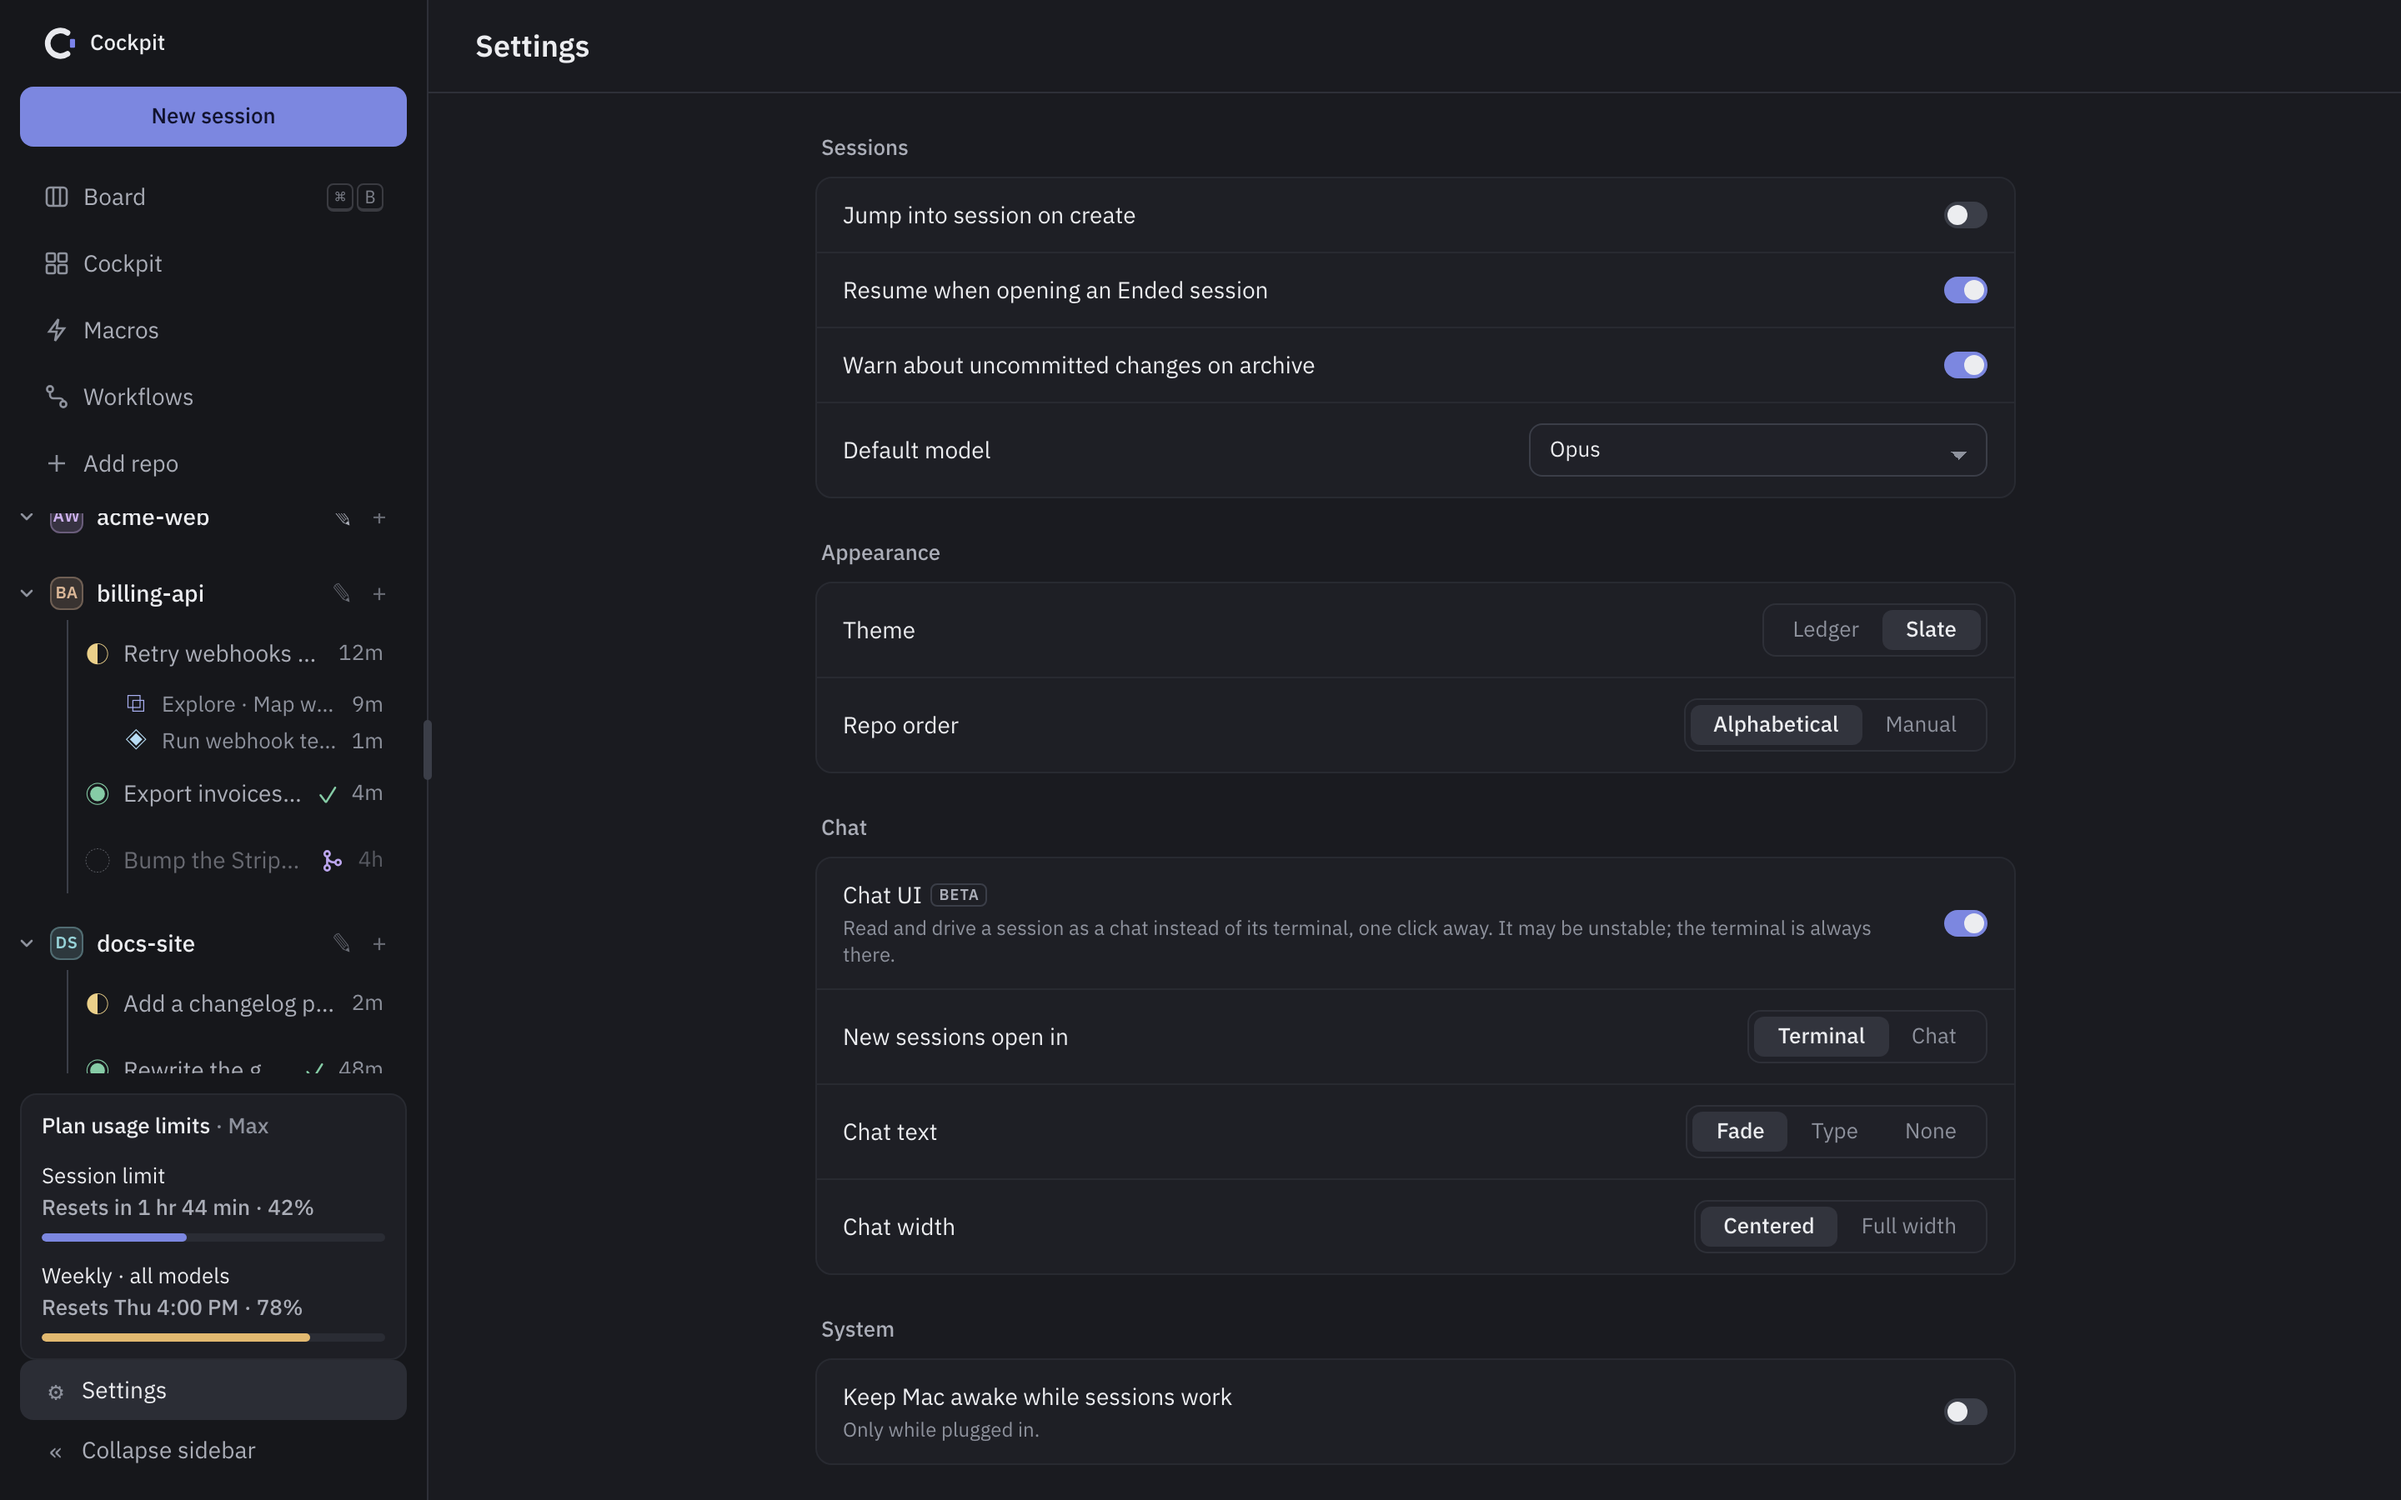
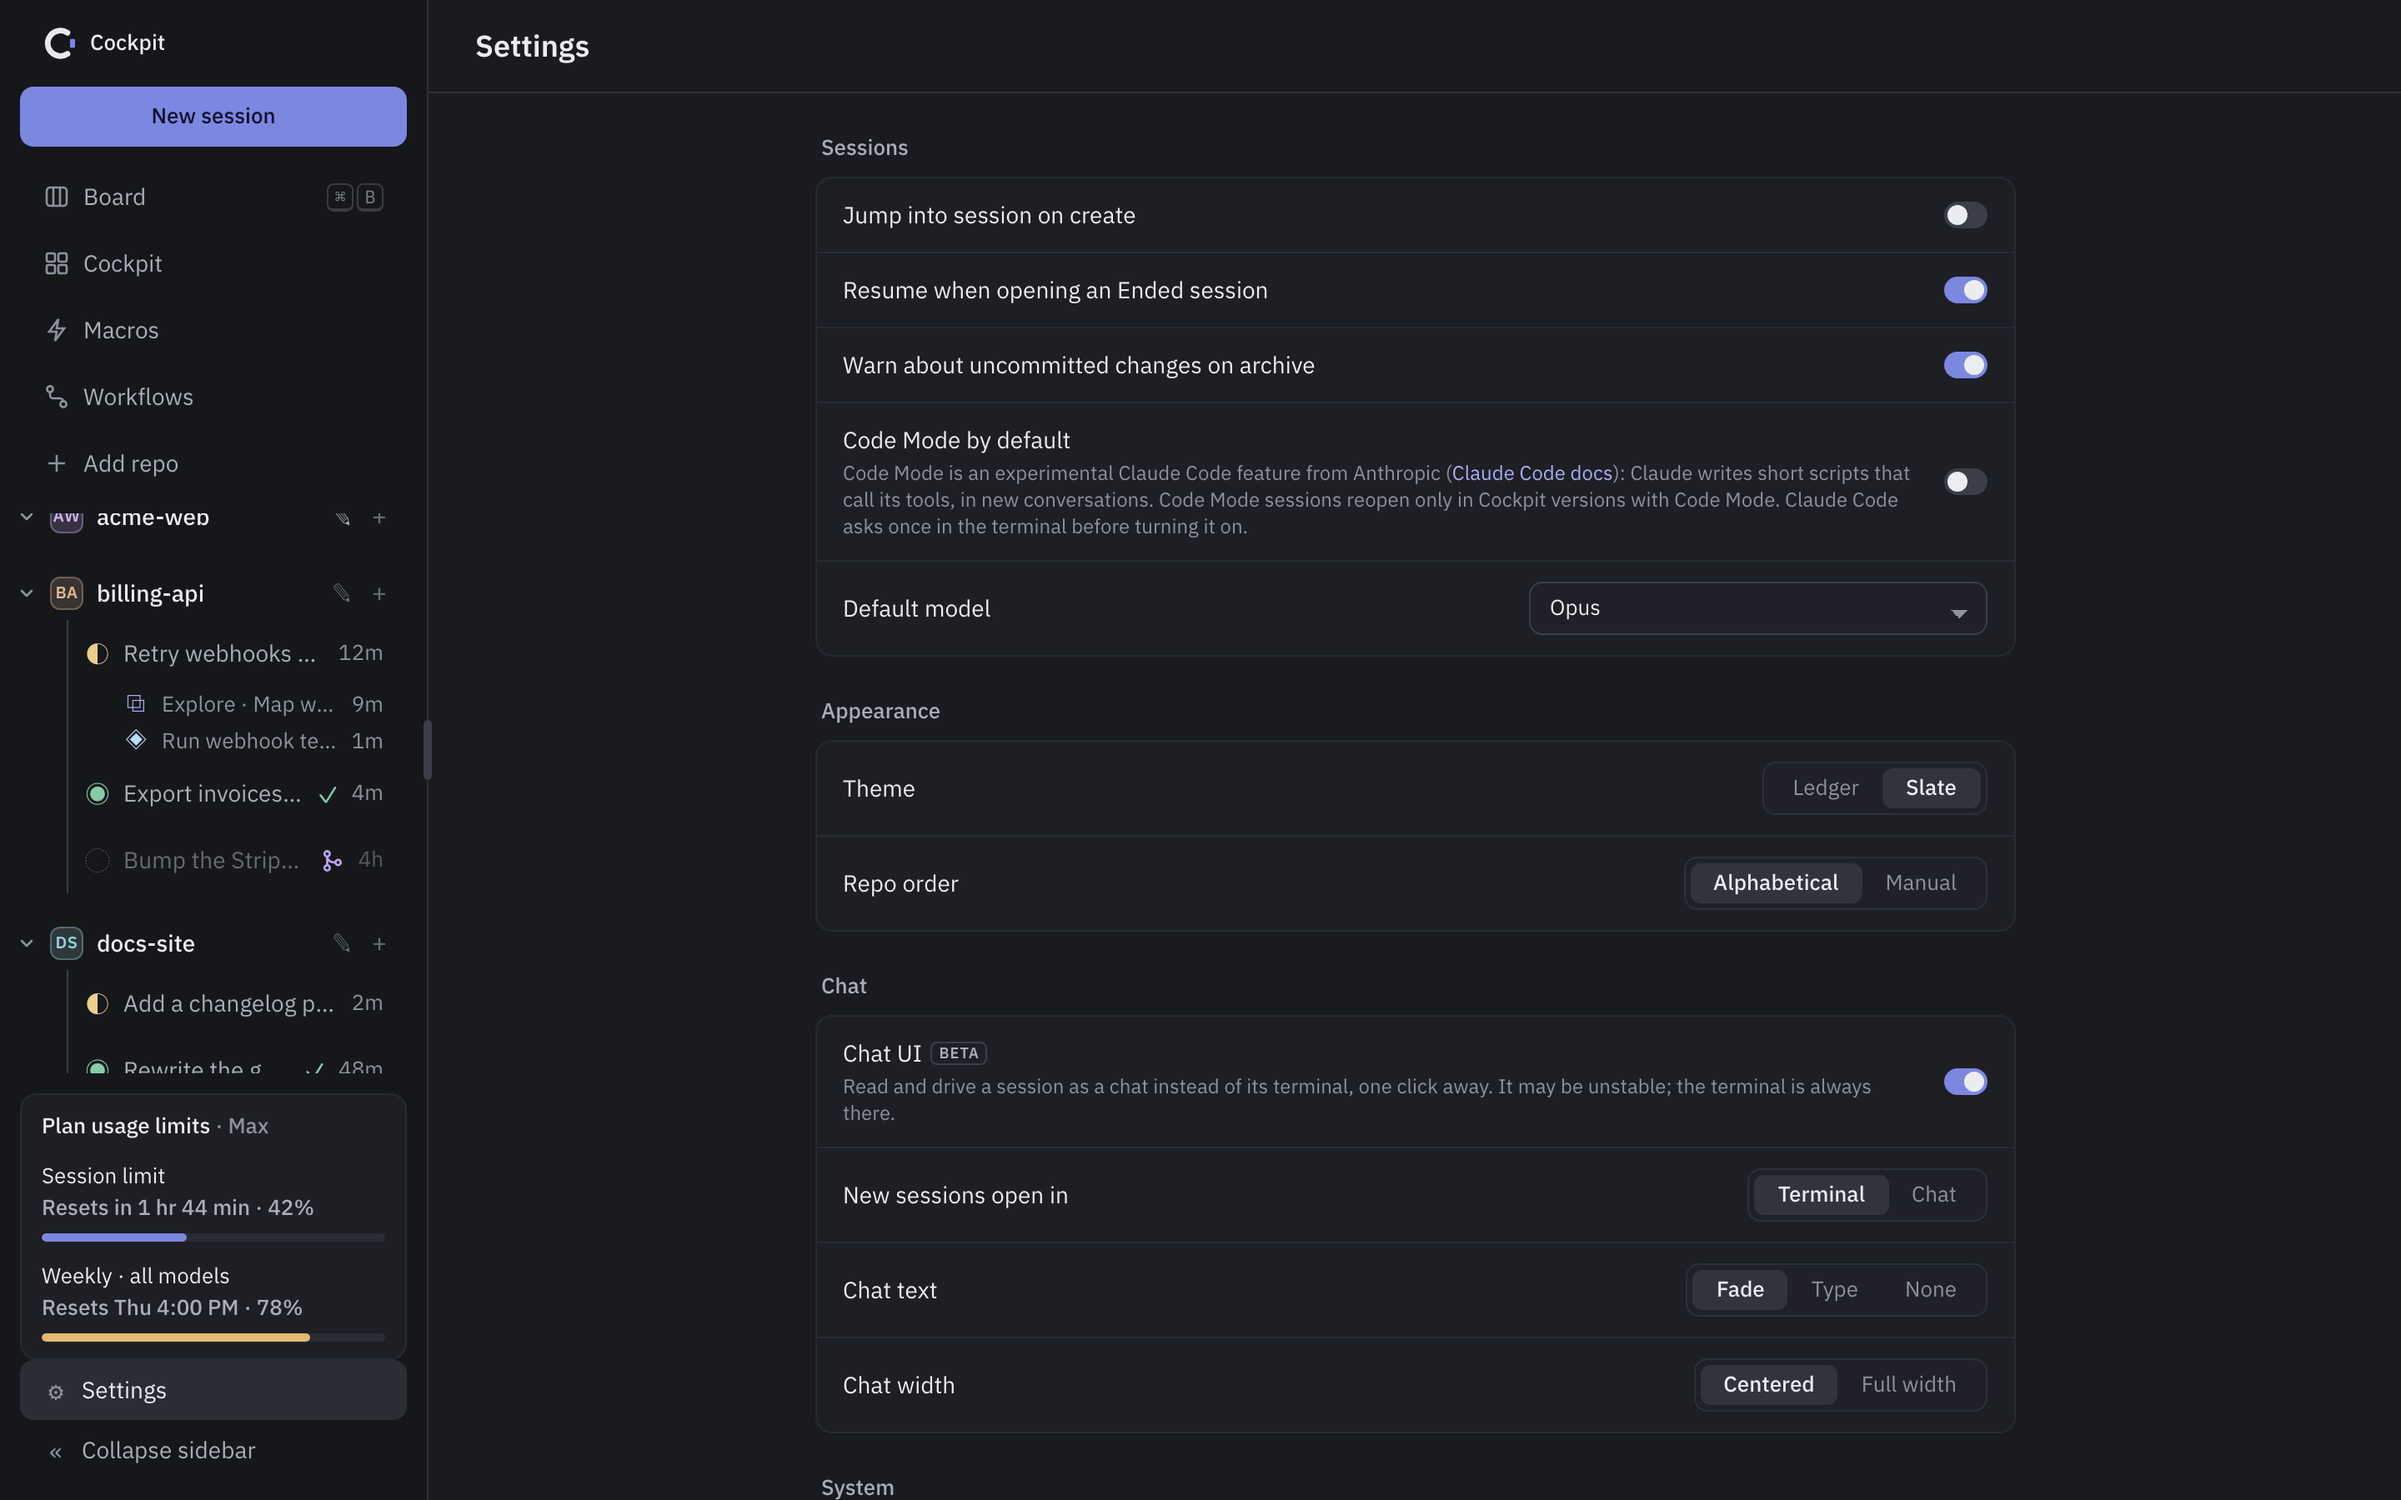
docs: README for v0.18.0 (#30)

diff --git a/README.md b/README.md
@@ -105,8 +105,8 @@ Each session has its own card, also when several share a worktree. The worktree'
 - **Base branch** starts on the branch you last used in that repo, else on its default branch. The list has the local branches, then the branches only `origin` has.
 - Each session gets its own worktree in `<repo parent>/.cockpit-worktrees/`, branched from a fresh `origin/<base>`.
 - To add a session to a worktree that is already open, pick **Existing branch** and its branch. The form says which worktree it joins, and **Create session** becomes **Add to …**.
-- The chips in the prompt box set the session's permission mode (Auto by default), model and effort. The model starts on **Default model** from Settings. Effort **Default** (the sliders icon) leaves it to your Claude Code settings. Sessions never use `--dangerously-skip-permissions`.
-- Claude can propose a session through Cockpit's `new_session` tool. It opens this form prefilled; nothing starts until you click **Create session**.
+- The chips in the prompt box set the session's permission mode (Auto by default), model and effort. The model starts on **Default model** from Settings. Effort **Default** (the sliders icon) leaves it to your Claude Code settings. The **Code Mode** switch starts the session in Code Mode (see [Code Mode](#code-mode)). Sessions never use `--dangerously-skip-permissions`.
+- Claude can propose a session through Cockpit's `new_session` tool. It opens this form prefilled; nothing starts until you click **Create session**. Claude says only "Session draft sent." about it and carries on; ask it about the draft when you want the details.
 
 ![Adding a session to an open worktree](docs/screenshots/add-to-worktree.png)
 
@@ -130,7 +130,7 @@ Repos have notes too: click the pencil next to the repo name in the sidebar.
 
 Start another Claude Code session on the same branch and files: a fresh context for the next step, or a side question that stays out of the main conversation.
 
-- Click **+** at the end of the tabs, or press <kbd>⌘</kbd> <kbd>T</kbd>. The new session starts at once, with the open session's mode, model and effort.
+- Click **+** at the end of the tabs, or press <kbd>⌘</kbd> <kbd>T</kbd>. The new session starts at once, with the open session's mode, model, effort and Code Mode switch.
 - A new session is called **Session 2**, **Session 3** and so on until its first prompt names it.
 - Tabs show while a worktree has two sessions or more. Click a tab, or press <kbd>⌃</kbd> <kbd>Tab</kbd> and <kbd>⌃</kbd> <kbd>⇧</kbd> <kbd>Tab</kbd>, to switch.
 - When the tabs don't fit, **⋯** lists the rest and shows the most urgent state among them.
@@ -160,6 +160,7 @@ Turn on **Chat UI** in Settings. Then click the chat icon in the session header 
 
 - Your prompts sit on the right, with their images. Claude's replies are formatted text, with their images. An image file shows only if it is inside the session's worktree. An image on GitHub shows too; one from any other site stays a link. An image that can't load shows as its text, a link when it has a web address.
 - Each tool call is one line with its command or file and a ✓ or ✕. Click it to see its input and result. Thinking is a collapsed **Thinking** line.
+- In a Code Mode session, a script Claude runs is a **Script** line showing its first line. Click it to see the script and its result; the tool calls the script made sit under it.
 - Two or more tool calls in a row fold into one steps line, along with any thinking between them. Each tool call counts as a step. While Claude works, the line shows the step Claude is on, such as **◐ Bash cargo test · 3 steps**, and each new step replaces it. Once the run is over, it reads like **6 steps Bash ×5 · Edit ✓**. If any steps failed, it ends in ✕ and how many failed instead, also while Claude works. Click it to see every step.
 - File paths are links: click one to open it in the Files tab, at its line. <kbd>⌘</kbd>-click a **Read**, **Write** or edit line (**Edit**, **MultiEdit**, **NotebookEdit**) to open its file.
 - Every code block has a copy button in its top-right corner: Claude's code, a tool call's input and result, and command output. It shows while the pointer is over the block or the button has keyboard focus. Click it to copy the block's text. It reads **Copied** for 2 seconds, or **Copy failed** if the clipboard refuses.
@@ -236,6 +237,21 @@ The chips at the bottom left of the composer show what the terminal's status lin
 
 > [!NOTE]
 > In Plan mode, Claude Code currently runs Sonnet when Haiku is picked, so the model chip shows Sonnet. The model menu still ticks Haiku and says "Plan mode runs Sonnet" under it, in the composer and in the New session form. In other modes Haiku runs without an effort level, and the effort menu says so.
+
+### Code Mode
+
+![Code Mode switched on in the New session form](docs/screenshots/code-mode.png)
+
+Code Mode is an experimental Claude Code feature from Anthropic: Claude writes short scripts that call its tools, instead of calling them one at a time. Anthropic's [Code Mode page](https://code.claude.com/docs/en/code-mode) has the details and what it needs (Claude Code 2.1.323 or later, a Claude subscription or Console account, a recent model). When those are missing, Claude Code starts without it and says why.
+
+- Turn on **Code Mode** in the New session form. It starts from **Code Mode by default** in Settings, off unless you change it. While it is on, the form says the feature is Anthropic's and links its docs.
+- Code Mode applies to a new conversation. In the composer, the switch works until you send the first prompt, and again after `/clear`. Flipping it restarts Claude.
+- Once the conversation has started, the switch shows whether it runs in Code Mode and no longer flips. Hover it to see why. Mode, model and effort changes keep the conversation in the mode it started in.
+- The first time, Claude Code asks in the terminal before it turns Code Mode on. In the chat, the session stays **Starting** with **Open in terminal** until you answer. If you say no, or Claude Code starts without Code Mode (a requirement above is missing), Cockpit turns the session's switch off, so it isn't asked again.
+- Cockpit's switch wins over `CLAUDE_CODE_EXPERIMENTAL_CODE_MODE` in your shell profile: Cockpit sets it for each session. A `0` in your Claude Code settings still keeps Code Mode off.
+
+> [!NOTE]
+> A Code Mode session reopens only in Cockpit versions with Code Mode. Claude Code won't resume a Code Mode conversation without it, so an older Cockpit ends that session at once.
 
 ### Reply to a selection
 
@@ -382,6 +398,7 @@ Click **Settings** to open the Settings page. A change applies as soon as you cl
 | Sessions | Jump into session on create | Off |
 | Sessions | Resume when opening an Ended session | On |
 | Sessions | Warn about uncommitted changes on archive | On |
+| Sessions | Code Mode by default | Off (see [Code Mode](#code-mode)) |
 | Sessions | Default model | Opus |
 | Appearance | Theme | Slate (Ledger is a darker alternative) |
 | Appearance | Repo order | Alphabetical (**Manual** keeps the order you drag repo rows into on the Board) |
@@ -435,7 +452,7 @@ Settings shows the installed version and has **Check for updates** to check righ
 > If your Mac would ask for an administrator password to replace Cockpit (it sits in a folder you can't write to), Cockpit never installs on its own. The sidebar shows **Update to vX.Y.Z** and Settings shows **Install update** instead. Click either one and enter your password when macOS asks.
 
 > [!NOTE]
-> The app holds no GitHub token. It reads the public feed at `https://github.com/kaimunlau/cockpit-releases/releases/latest/download/latest.json` and verifies each update's signature before installing it.
+> The app holds no GitHub token. It reads the public feeds at `https://update.cccockpit.com/release/latest.json` and `https://github.com/kaimunlau/cockpit-releases/releases/latest/download/latest.json`, takes the newer version either one offers, and verifies each update's signature before installing it.
 
 ### Beta builds
 
